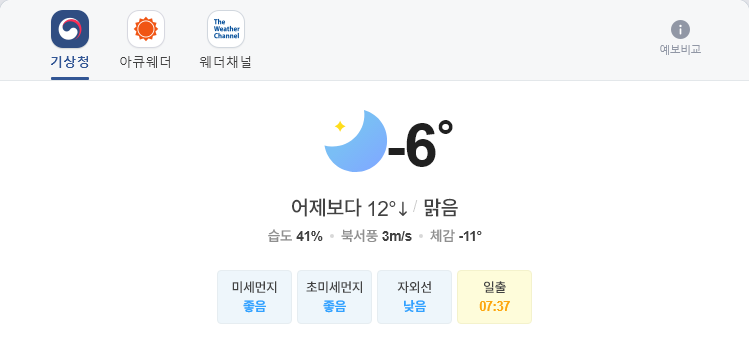
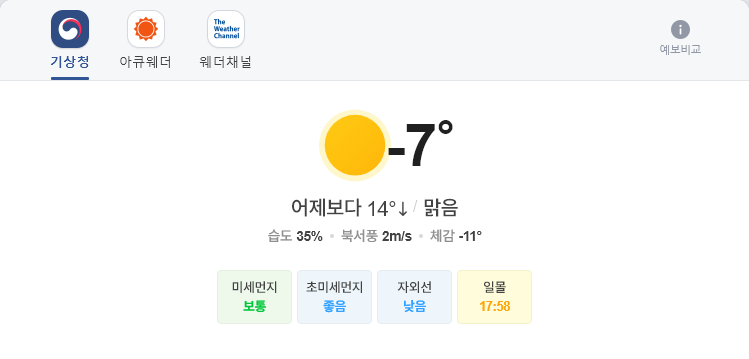
update result

diff --git a/README.md b/README.md
@@ -1,5 +1,5 @@
-##  2021-02-02 05:54:43   화요일 
-##### 날씨   -   어제보다 12° 낮아요맑음  
+##  2021-02-02 09:16:42   화요일 
+##### 날씨   -   어제보다 14° 낮아요맑음  
 <center><img src="../img/naver_weather_week.png"></center>
 ----
 ----
@@ -13,9 +13,9 @@
 ##### 세계
 <table border="1" bordercolor="blue" align = "center" >
 <tr align = "right" > <td>Item</td><td>Point</td><td>Diff</td><td>Rate</td><td>Buy</td><td>Sell</td><td>...</td>  </tr>
-<tr align = "right" > <td>DOW</td><td>30,258.37</td><td>275.75</td><td><font size="3" color="red" >0.92%</font></td><td><font size="3" color="black">0</font></td><td><font size="3" color="black">0</font></td><td>0</td>  </tr>
-<tr align = "right" > <td>NASDAQ</td><td>13,422.09</td><td>351.39</td><td><font size="3" color="red" >2.69%</font></td><td><font size="3" color="black">0</font></td><td><font size="3" color="black">0</font></td><td>0</td>  </tr>
-<tr align = "right" > <td>S&P</td><td>3,779.59</td><td>65.35</td><td><font size="3" color="red" >1.76%</font></td><td><font size="3" color="black">0</font></td><td><font size="3" color="black">0</font></td><td>0</td>  </tr>
+<tr align = "right" > <td>DOW</td><td>30,211.91</td><td>229.29</td><td><font size="3" color="red" >0.76%</font></td><td><font size="3" color="black">0</font></td><td><font size="3" color="black">0</font></td><td>0</td>  </tr>
+<tr align = "right" > <td>NASDAQ</td><td>13,403.39</td><td>332.69</td><td><font size="3" color="red" >2.55%</font></td><td><font size="3" color="black">0</font></td><td><font size="3" color="black">0</font></td><td>0</td>  </tr>
+<tr align = "right" > <td>S&P</td><td>3,773.86</td><td>59.62</td><td><font size="3" color="red" >1.61%</font></td><td><font size="3" color="black">0</font></td><td><font size="3" color="black">0</font></td><td>0</td>  </tr>
 <tr align = "right" > <td>SHANHAI</td><td>3,505.28</td><td>22.22</td><td><font size="3" color="red" >0.64%</font></td><td><font size="3" color="black">0</font></td><td><font size="3" color="black">0</font></td><td>0</td>  </tr>
 <tr align = "right" > <td>INDIA</td><td>48,600.61</td><td>231.0</td><td><font size="3" color="red" >5.0%</font></td><td><font size="3" color="black">0</font></td><td><font size="3" color="black">0</font></td><td>0</td>  </tr>
 </table>
@@ -23,33 +23,33 @@
 ##### 시장
 <table border="1" bordercolor="blue" align = "center" >
 <tr align = "right" > <td>Item</td><td>Price</td><td>Diff</td><td>Rate</td><td>Buy</td><td>Sell</td><td>...</td>  </tr>
-<tr align = "right" > <td>USD</td><td>1,119.0</td><td>2.0</td><td><font size="3" color="red">0.18%</font></td><td><font size="3" color="black">1,110</font></td><td><font size="3" color="black">0</font></td><td>0</td>  </tr>
-<tr align = "right" > <td>WTI</td><td>52.2</td><td>-0.14</td><td><font size="3" color="blue">-0.26%</font></td><td><font size="3" color="black">29.0</font></td><td><font size="3" color="black">0</font></td><td>0</td>  </tr>
-<tr align = "right" > <td>GOLD</td><td>1,847.0</td><td>9.4</td><td><font size="3" color="red">0.51%</font></td><td><font size="3" color="black">0</font></td><td><font size="3" color="black">0</font></td><td>0</td>  </tr>
+<tr align = "right" > <td>USD</td><td>1,118.0</td><td>-1.0</td><td><font size="3" color="blue">-0.09%</font></td><td><font size="3" color="black">1,110</font></td><td><font size="3" color="black">0</font></td><td>0</td>  </tr>
+<tr align = "right" > <td>WTI</td><td>53.55</td><td>1.35</td><td><font size="3" color="red">2.58%</font></td><td><font size="3" color="black">29.0</font></td><td><font size="3" color="black">0</font></td><td>0</td>  </tr>
+<tr align = "right" > <td>GOLD</td><td>1,860.0</td><td>13.5</td><td><font size="3" color="red">0.73%</font></td><td><font size="3" color="black">0</font></td><td><font size="3" color="black">0</font></td><td>0</td>  </tr>
 </table>
 ----
 ##### 주가
 <table border="1" bordercolor="blue" align = "center" >
 <tr align = "right" > <td>Item</td><td>Price</td><td>Diff</td><td>Rate</td><td>Purchased</td><td>Sell</td><td>Buy</td>  </tr>
-<tr align = "right" > <td>한국 전력</td><td>22,850</td><td>0</td><td><font size="3" color="black">0.0%</font></td><td>25,720</td><td><font size="3" color="black">27,700</font></td><td><font size="3" color="black">20,700</font></td>  </tr>
-<tr align = "right" > <td>삼성엔지니어.</td><td>12,550</td><td>200</td><td><font size="3" color="red">1.62%</font></td><td>18,935</td><td><font size="3" color="black">20,000</font></td><td><font size="3" color="black">8,000</font></td>  </tr>
-<tr align = "right" > <td>CJ CGV</td><td>27,100</td><td>250</td><td><font size="3" color="red">0.93%</font></td><td>34,895</td><td><font size="3" color="black">36,000</font></td><td><font size="3" color="black">0</font></td>  </tr>
-<tr align = "right" > <td>아모레퍼시픽</td><td>223,000</td><td>0</td><td><font size="3" color="black">0.0%</font></td><td>235,350</td><td><font size="3" color="black">240,000</font></td><td><font size="3" color="black">130,000</font></td>  </tr>
-<tr align = "right" > <td>한화</td><td>32,900</td><td>750</td><td><font size="3" color="red">2.33%</font></td><td>25,550</td><td><font size="3" color="black">26,250</font></td><td><font size="3" color="black">26,250</font></td>  </tr>
-<tr align = "right" > <td>NAVER</td><td>348,000</td><td>5,000</td><td><font size="3" color="red">1.46%</font></td><td>147,200</td><td><font size="3" color="black">386,000</font></td><td><font size="3" color="black">286,000</font></td>  </tr>
-<tr align = "right" > <td>LG 화학우</td><td>477,500</td><td>10,000</td><td><font size="3" color="red">2.14%</font></td><td>202,490</td><td><font size="3" color="black">384,000</font></td><td><font size="3" color="black">384,000</font></td>  </tr>
-<tr align = "right" > <td>스튜디오드래.</td><td>99,700</td><td>800</td><td><font size="3" color="red">0.81%</font></td><td>81,243</td><td><font size="3" color="black">85,200</font></td><td><font size="3" color="black">85,200</font></td>  </tr>
-<tr align = "right" > <td>QV미국IT</td><td>25,515</td><td>-85</td><td><font size="3" color="blue">-0.33%</font></td><td>0</td><td><font size="3" color="black">30,000</font></td><td><font size="3" color="black">20,000</font></td>  </tr>
-<tr align = "right" > <td>삼성 전자우</td><td>73,300</td><td>200</td><td><font size="3" color="red">0.27%</font></td><td>48,250</td><td><font size="3" color="black">56,000</font></td><td><font size="3" color="black">45,000</font></td>  </tr>
-<tr align = "right" > <td>LS</td><td>66,800</td><td>2,400</td><td><font size="3" color="red">3.73%</font></td><td>71,400</td><td><font size="3" color="black">82,000</font></td><td><font size="3" color="black">60,000</font></td>  </tr>
-<tr align = "right" > <td>한화에어로스.</td><td>40,900</td><td>250</td><td><font size="3" color="red">0.62%</font></td><td>25,700</td><td><font size="3" color="black">30,000</font></td><td><font size="3" color="black">24,000</font></td>  </tr>
-<tr align = "right" > <td>카카오</td><td>441,500</td><td>500</td><td><font size="3" color="red">0.11%</font></td><td>405,500</td><td><font size="3" color="black">440,000</font></td><td><font size="3" color="black">400,000</font></td>  </tr>
-<tr align = "right" > <td>호텔 신라</td><td>81,100</td><td>200</td><td><font size="3" color="red">0.25%</font></td><td>72,800</td><td><font size="3" color="black">100,000</font></td><td><font size="3" color="black">70,000</font></td>  </tr>
-<tr align = "right" > <td>S-Oil</td><td>69,200</td><td>1,000</td><td><font size="3" color="red">1.47%</font></td><td>62,842</td><td><font size="3" color="black">100,000</font></td><td><font size="3" color="black">50,000</font></td>  </tr>
-<tr align = "right" > <td>LG전자</td><td>158,000</td><td>5,000</td><td><font size="3" color="red">3.27%</font></td><td>82,022</td><td><font size="3" color="black">100,000</font></td><td><font size="3" color="black">60,000</font></td>  </tr>
-<tr align = "right" > <td>지역난방공사</td><td>37,300</td><td>-350</td><td><font size="3" color="blue">-0.93%</font></td><td>43,590</td><td><font size="3" color="black">60,000</font></td><td><font size="3" color="black">30,000</font></td>  </tr>
-<tr align = "right" > <td>KOEDX은행</td><td>6,115</td><td>220</td><td><font size="3" color="red">3.73%</font></td><td>5,178</td><td><font size="3" color="black">6,225</font></td><td><font size="3" color="orangered">6,225</font></td>  </tr>
-<tr align = "right" > <td>글로벌럭셔리</td><td>15,035</td><td>-25</td><td><font size="3" color="blue">-0.17%</font></td><td>15,260</td><td><font size="3" color="black">20,000</font></td><td><font size="3" color="black">10,000</font></td>  </tr>
-<tr align = "right" > <td>한국금융지주</td><td>84,600</td><td>3,300</td><td><font size="3" color="red">4.06%</font></td><td>0</td><td><font size="3" color="black">82,000</font></td><td><font size="3" color="black">60,000</font></td>  </tr>
+<tr align = "right" > <td>한국 전력</td><td>23,600</td><td>750</td><td><font size="3" color="red">3.28%</font></td><td>25,720</td><td><font size="3" color="black">27,700</font></td><td><font size="3" color="black">20,700</font></td>  </tr>
+<tr align = "right" > <td>삼성엔지니어.</td><td>12,600</td><td>50</td><td><font size="3" color="red">0.4%</font></td><td>18,935</td><td><font size="3" color="black">20,000</font></td><td><font size="3" color="black">8,000</font></td>  </tr>
+<tr align = "right" > <td>CJ CGV</td><td>27,500</td><td>400</td><td><font size="3" color="red">1.48%</font></td><td>34,895</td><td><font size="3" color="black">36,000</font></td><td><font size="3" color="black">0</font></td>  </tr>
+<tr align = "right" > <td>아모레퍼시픽</td><td>226,000</td><td>3,000</td><td><font size="3" color="red">1.35%</font></td><td>235,350</td><td><font size="3" color="black">240,000</font></td><td><font size="3" color="black">130,000</font></td>  </tr>
+<tr align = "right" > <td>한화</td><td>33,250</td><td>350</td><td><font size="3" color="red">1.06%</font></td><td>25,550</td><td><font size="3" color="black">26,250</font></td><td><font size="3" color="black">26,250</font></td>  </tr>
+<tr align = "right" > <td>NAVER</td><td>359,000</td><td>11,000</td><td><font size="3" color="red">3.16%</font></td><td>147,200</td><td><font size="3" color="black">386,000</font></td><td><font size="3" color="black">286,000</font></td>  </tr>
+<tr align = "right" > <td>LG 화학우</td><td>483,000</td><td>5,500</td><td><font size="3" color="red">1.15%</font></td><td>202,490</td><td><font size="3" color="black">384,000</font></td><td><font size="3" color="black">384,000</font></td>  </tr>
+<tr align = "right" > <td>스튜디오드래.</td><td>101,500</td><td>1,800</td><td><font size="3" color="red">1.81%</font></td><td>81,243</td><td><font size="3" color="black">85,200</font></td><td><font size="3" color="black">85,200</font></td>  </tr>
+<tr align = "right" > <td>QV미국IT</td><td>26,170</td><td>655</td><td><font size="3" color="red">2.57%</font></td><td>0</td><td><font size="3" color="black">30,000</font></td><td><font size="3" color="black">20,000</font></td>  </tr>
+<tr align = "right" > <td>삼성 전자우</td><td>74,500</td><td>1,200</td><td><font size="3" color="red">1.64%</font></td><td>48,250</td><td><font size="3" color="black">56,000</font></td><td><font size="3" color="black">45,000</font></td>  </tr>
+<tr align = "right" > <td>LS</td><td>66,200</td><td>-600</td><td><font size="3" color="blue">-0.9%</font></td><td>71,400</td><td><font size="3" color="black">82,000</font></td><td><font size="3" color="black">60,000</font></td>  </tr>
+<tr align = "right" > <td>한화에어로스.</td><td>43,350</td><td>2,450</td><td><font size="3" color="red">5.99%</font></td><td>25,700</td><td><font size="3" color="black">30,000</font></td><td><font size="3" color="black">24,000</font></td>  </tr>
+<tr align = "right" > <td>카카오</td><td>449,500</td><td>8,000</td><td><font size="3" color="red">1.81%</font></td><td>405,500</td><td><font size="3" color="black">440,000</font></td><td><font size="3" color="black">400,000</font></td>  </tr>
+<tr align = "right" > <td>호텔 신라</td><td>81,000</td><td>-100</td><td><font size="3" color="blue">-0.12%</font></td><td>72,800</td><td><font size="3" color="black">100,000</font></td><td><font size="3" color="black">70,000</font></td>  </tr>
+<tr align = "right" > <td>S-Oil</td><td>69,800</td><td>600</td><td><font size="3" color="red">0.87%</font></td><td>62,842</td><td><font size="3" color="black">100,000</font></td><td><font size="3" color="black">50,000</font></td>  </tr>
+<tr align = "right" > <td>LG전자</td><td>158,500</td><td>500</td><td><font size="3" color="red">0.32%</font></td><td>82,022</td><td><font size="3" color="black">100,000</font></td><td><font size="3" color="black">60,000</font></td>  </tr>
+<tr align = "right" > <td>지역난방공사</td><td>37,550</td><td>250</td><td><font size="3" color="red">0.67%</font></td><td>43,590</td><td><font size="3" color="black">60,000</font></td><td><font size="3" color="black">30,000</font></td>  </tr>
+<tr align = "right" > <td>KOEDX은행</td><td>6,120</td><td>5</td><td><font size="3" color="red">0.08%</font></td><td>5,178</td><td><font size="3" color="black">6,225</font></td><td><font size="3" color="orangered">6,225</font></td>  </tr>
+<tr align = "right" > <td>글로벌럭셔리</td><td>15,115</td><td>80</td><td><font size="3" color="red">0.53%</font></td><td>15,260</td><td><font size="3" color="black">20,000</font></td><td><font size="3" color="black">10,000</font></td>  </tr>
+<tr align = "right" > <td>한국금융지주</td><td>84,900</td><td>300</td><td><font size="3" color="red">0.35%</font></td><td>0</td><td><font size="3" color="black">82,000</font></td><td><font size="3" color="black">60,000</font></td>  </tr>
 </table>
 ----
